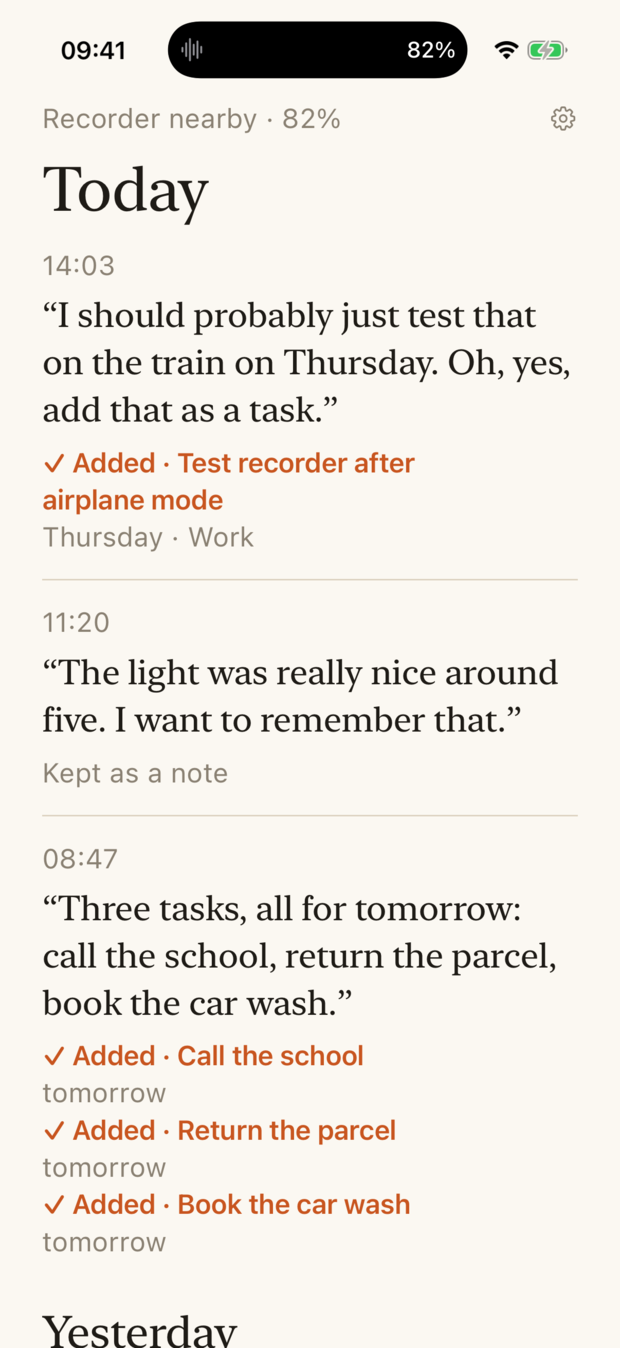
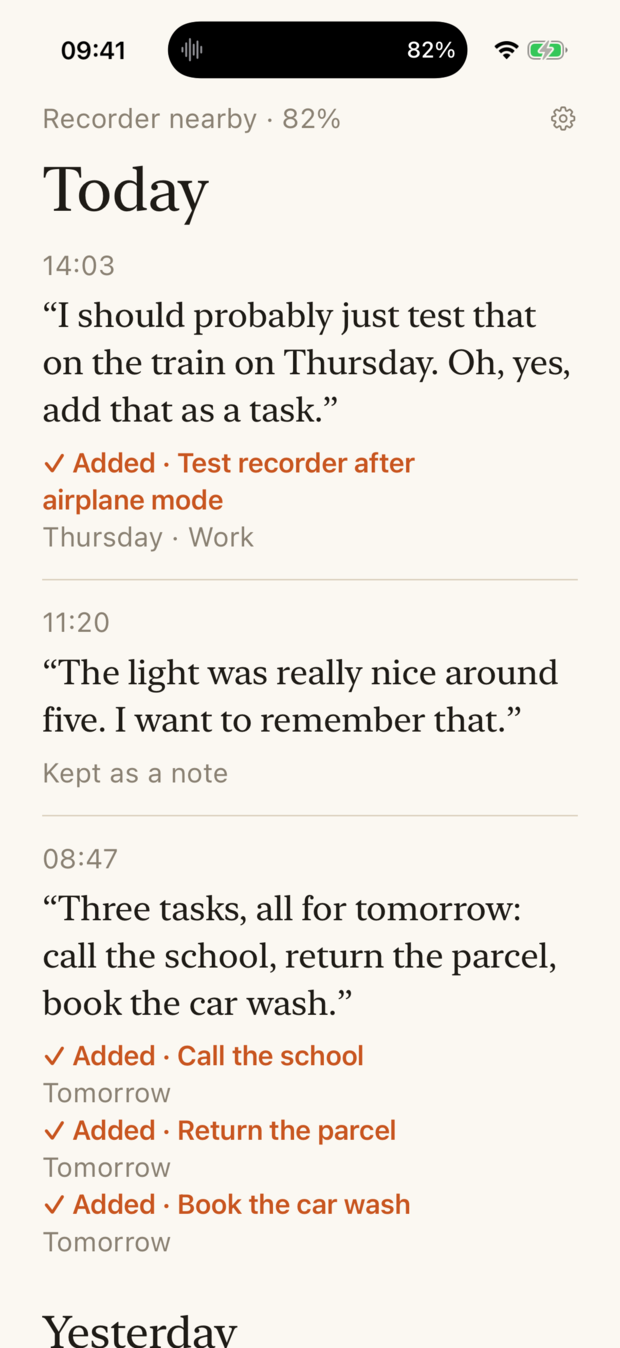
Web page: light up the playing step; tidy the screenshots

Changed region(s): [[0.0613, 0.7789, 0.2758, 0.8724], [0.0613, 0.9036, 0.2758, 0.9347]]

diff --git a/docs/index.html b/docs/index.html
@@ -38,9 +38,11 @@
           align-items: center; justify-content: center; gap: 6px; color: var(--quiet); margin-top: 40px; text-align: center; padding: 24px; }
   .film b { font: 400 24px/1.2 var(--spoken); color: var(--ink); }
 
-  .sounds { background: var(--card); border-radius: 22px; padding: 4px 20px; margin: 28px 0; }
-  .sound { display: flex; align-items: center; gap: 14px; padding: 14px 0; border-top: 1px solid var(--rule); }
+  .sounds { background: var(--card); border-radius: 22px; padding: 4px 0; margin: 28px 0; overflow: hidden; }
+  .sound { display: flex; align-items: center; gap: 14px; padding: 14px 20px; border-top: 1px solid var(--rule); transition: background .2s, box-shadow .2s; }
   .sound:first-child { border-top: 0; }
+  /* The step that is sounding while the whole note plays. */
+  .sound.on { background: var(--mark); box-shadow: inset 4px 0 0 var(--brand); }
   .sound div { flex: 1; } .sound b { display: block; font-weight: 600; } .sound span { color: var(--quiet); font-size: 15px; }
   button { font: 600 15px var(--app); color: var(--ink); background: var(--chip); border: 0; border-radius: 99px; padding: 9px 18px; cursor: pointer; }
   button:hover { filter: brightness(.96); } button.primary { background: var(--brand); color: #fff; padding: 12px 22px; font-size: 16px; }
@@ -48,10 +50,10 @@
   .tag { display: inline-block; font-size: 12px; font-weight: 600; letter-spacing: .08em; text-transform: uppercase; color: var(--quiet);
          border: 1px solid var(--rule); border-radius: 99px; padding: 1px 9px; margin-left: 6px; vertical-align: 2px; }
 
-  .phones { display: grid; grid-template-columns: repeat(3, 1fr); gap: 16px; margin: 28px -60px 8px; }
+  .phones { display: grid; grid-template-columns: repeat(3, 1fr); gap: 20px; margin: 32px -60px 44px; align-items: start; }
   .phones figure { margin: 0; } .phones img { width: 100%; display: block; border: 7px solid #0c0c0d; border-radius: 34px; box-shadow: 0 18px 40px -18px rgba(30, 27, 22, .45); }
-  .phones figcaption { font-size: 14px; color: var(--quiet); margin-top: 10px; }
-  @media (max-width: 820px) { .phones { margin-left: 0; margin-right: 0; grid-template-columns: 1fr; max-width: 320px; } }
+  .phones figcaption { font-size: 15px; line-height: 1.45; color: var(--quiet); margin-top: 16px; padding: 0 6px; }
+  @media (max-width: 820px) { .phones { margin-left: auto; margin-right: auto; grid-template-columns: 1fr; max-width: 320px; gap: 36px; } }
 
   ul.plain { list-style: none; padding: 0; margin: 0 0 16px; } ul.plain li { padding: 12px 0; border-top: 1px solid var(--rule); }
   ul.plain li:first-child { border-top: 0; } ul.plain b { font-weight: 600; }
@@ -104,7 +106,6 @@
   <section class="first">
     <h1>Say it,<br>hear it done.</h1>
     <p class="lead">Quasi is a small experiment in computing without a screen. You speak into a pocket recorder. Your phone stays in your bag, dark and locked. A few notes of wood and chime tell you that you were heard, understood, and that the thing you asked for is done.</p>
-    <p class="quiet">If you ever want to check, there is a logbook. Most days you won't open it.</p>
   </section>
 
   <section>
@@ -127,7 +128,6 @@
         <div class="mark chime answer" style="left:76.3%" data-at="10300"><i></i><i></i><b></b><span class="above">Two tasks added</span></div>
       </div>
     </div>
-    <p class="quiet" id="caption">Press play to hear one whole note as it sounds.</p>
     </div>
     <div class="sounds">
       <div class="sound"><div><b>The question <span class="tag">chime</span></b><span>You pressed record, and the phone is listening.</span></div><button data-sound="question">Play</button></div>
@@ -136,7 +136,7 @@
       <div class="sound"><div><b>Still working <span class="tag">wood</span></b><span>A quiet tick-tock plays only when a step takes more than a moment.</span></div><button data-sound="ticking">Play</button></div>
       <div class="sound"><div><b>The answer: nothing to do <span class="tag">chime</span></b><span>Your note was not a request, so the phone plays the plain home note.</span></div><button data-sound="answer_nothing">Play</button></div>
       <div class="sound"><div><b>The answer: one task <span class="tag">chime</span></b><span>The phone plays one quick note and then the home chord.</span></div><button data-sound="answer_tasks_1">Play</button></div>
-      <div class="sound"><div><b>The answer: three tasks <span class="tag">chime</span></b><span>The phone plays one quick note for each task and then the chord, so you can count the tasks.</span></div><button data-sound="answer_tasks_3">Play</button></div>
+      <div class="sound"><div><b>The answer: two tasks <span class="tag">chime</span></b><span>The phone plays one quick note for each task and then the chord, so you can count the tasks.</span></div><button data-sound="answer_tasks_2">Play</button></div>
       <div class="sound"><div><b>Something failed <span class="tag">chime</span></b><span>The question falls away unanswered and rings out. Your note is still safe on the recorder.</span></div><button data-sound="answer_failed">Play</button></div>
     </div>
     <p class="quiet">A step that goes well climbs; a step that fails falls and rings longer, and nothing follows it. The sounds follow the phone's silent switch, and the taps say the same thing: one short tap for each good step, two long ones for a failure.</p>
@@ -190,15 +190,19 @@
 
   // One whole note, with roughly the pauses it has in real life. The timeline shows it as it plays.
   const steps = [
-    [0,     "question",       "You press record, and the phone asks the question."],
-    [1250,  null,             "You talk, and there is nothing to look at."],
-    [5200,  "wood_1",         "You stop recording, and the note arrives on the phone."],
-    [6100,  "wood_2",         "The phone writes your note down."],
-    [7400,  "ticking",        "The phone works out what you asked for."],
-    [10300, "answer_tasks_2", "The phone answers with two quick notes and the chord: it added two tasks."],
+    [0,     "question"],
+    [1250,  null],
+    [5200,  "wood_1"],
+    [6100,  "wood_2"],
+    [7400,  "ticking"],
+    [10300, "answer_tasks_2"],
+    [13000, null],
   ];
   const LENGTH = 13500;
-  const timeline = document.getElementById("timeline"), track = timeline.querySelector(".track"), caption = document.getElementById("caption");
+  const timeline = document.getElementById("timeline"), track = timeline.querySelector(".track");
+  // The row of the list below that belongs to the sound now playing is lit.
+  const light = sound => document.querySelectorAll(".sound").forEach(row =>
+    row.classList.toggle("on", sound !== null && row.querySelector("button").dataset.sound === sound));
   // The talking as a little cloud of sound, the working as ticks.
   const talk = track.querySelector(".talk"), ticks = track.querySelector(".ticks");
   let seed = 7;
@@ -219,23 +223,23 @@
     spread(talk, time); spread(ticks, time);
   };
   let timers = [], frame = 0, playing = [];
-  const stop = () => { timers.forEach(clearTimeout); cancelAnimationFrame(frame); playing.forEach(audio => audio.pause()); playing = []; timeline.classList.remove("playing"); };
+  const stop = () => { timers.forEach(clearTimeout); cancelAnimationFrame(frame); playing.forEach(audio => audio.pause()); playing = []; timeline.classList.remove("playing"); light(null); };
   document.getElementById("whole").addEventListener("click", () => {
     stop();
     timeline.classList.add("playing");
     const started = performance.now();
-    timers = steps.map(([at, sound, text]) => setTimeout(() => { if (sound) playing.push(play(sound)); caption.textContent = text; }, at));
+    timers = steps.map(([at, sound]) => setTimeout(() => { if (sound) playing.push(play(sound)); light(sound); }, at));
     const tick = () => {
       const time = performance.now() - started;
       show(time);
       if (time < LENGTH) frame = requestAnimationFrame(tick);
-      else { timeline.classList.remove("playing"); caption.textContent = "Press play to hear one whole note as it sounds."; show(0); }
+      else { timeline.classList.remove("playing"); show(0); light(null); }
     };
     tick();
   });
   // ?at=7000 shows the timeline as it stands at that moment, without sound (for checking the layout).
   const at = new URLSearchParams(location.search).get("at");
-  if (at) { timeline.classList.add("playing"); show(+at); }
+  if (at) { timeline.classList.add("playing"); show(+at); light([...steps].reverse().find(step => step[0] <= +at)?.[1] ?? null); }
 </script>
 </body>
 </html>

diff --git a/app/tools/sample_log.py b/app/tools/sample_log.py
@@ -36,5 +36,5 @@ import sys
 if sys.argv[1:] == ["site"]:
     said = "Three tasks, all for tomorrow: call the school, return the parcel, book the car wash."
     notes[2] = {"id": "c", "date": at(0, 8, 47), "seconds": 9, "transcript": said, "outcome": "taskAdded",
-                "tasks": [added(title, said, due="tomorrow", dueDate="2026-10-06") for title in ("Call the school", "Return the parcel", "Book the car wash")]}
+                "tasks": [added(title, said, due="Tomorrow", dueDate="2026-10-06") for title in ("Call the school", "Return the parcel", "Book the car wash")]}
 print(json.dumps(notes, indent=1))
